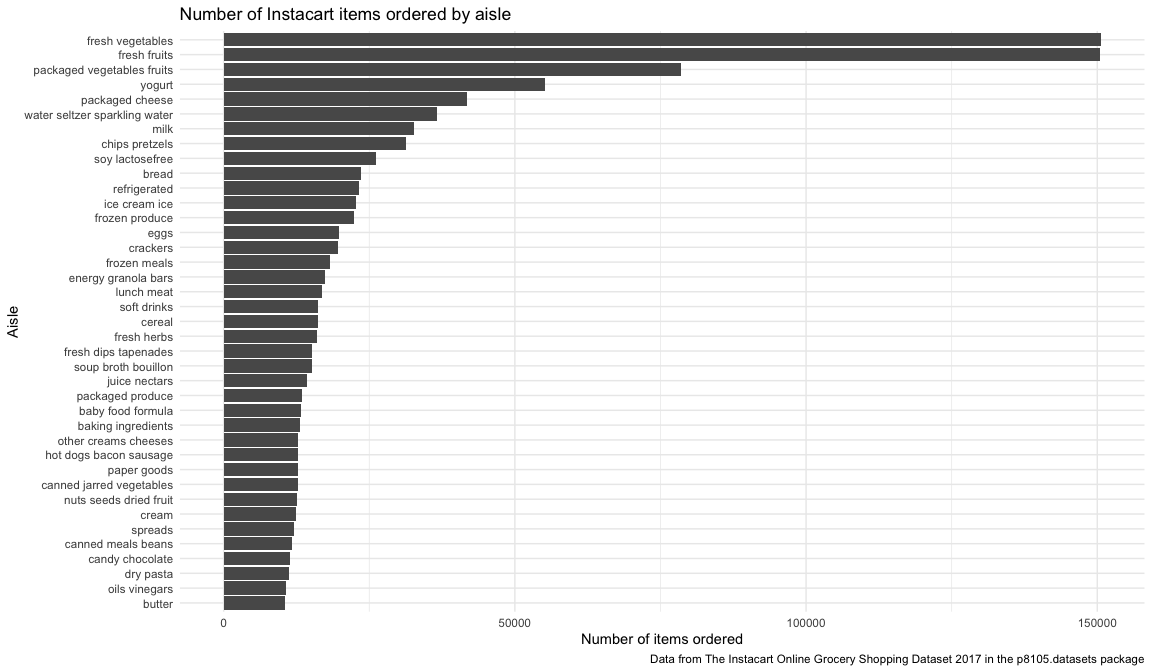
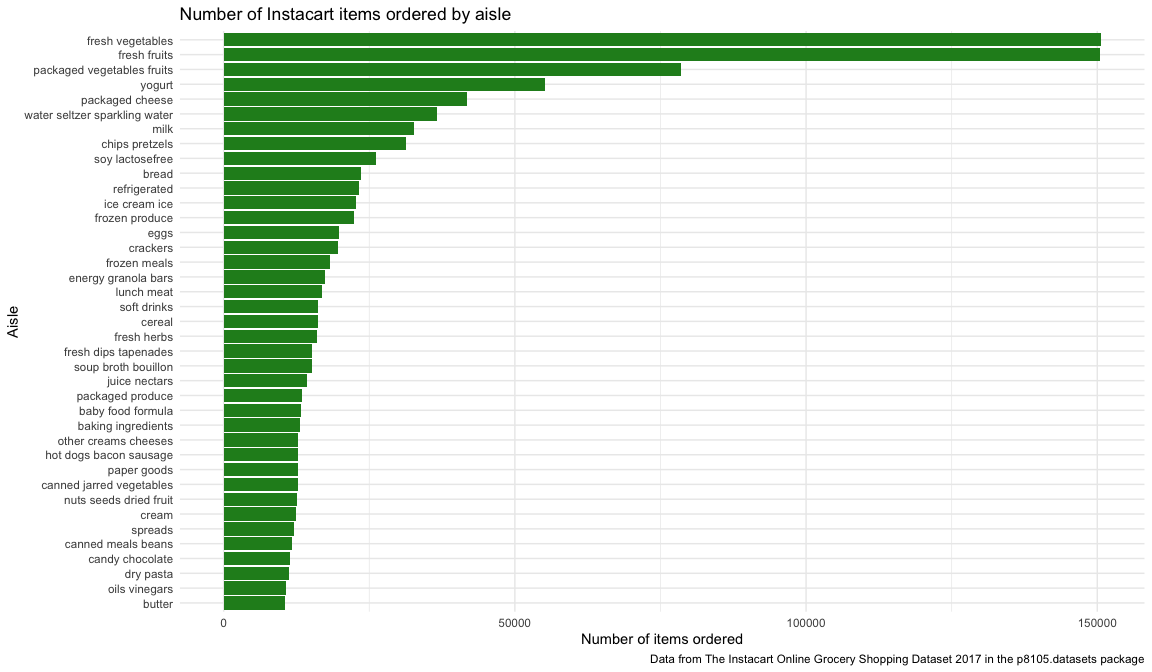
Problem 1 Part 4

Changed region(s): [[0.1875, 0.0312, 0.9688, 0.9062]]

diff --git a/p8105_hw3_my2731.md b/p8105_hw3_my2731.md
@@ -12,7 +12,7 @@ Dataset 2017”.
 ``` r
 data("instacart")
 
-instacart
+instacart 
 ```
 
     ## # A tibble: 1,384,617 × 15
@@ -62,8 +62,7 @@ aisles, and the most popular aisles customers order from in the dataset.
 aisles = instacart %>% 
   group_by(aisle_id, aisle) %>% 
   summarise(
-    n_obs = n()
-  ) %>% 
+    n_obs = n()) %>% 
   arrange(desc(n_obs))
 
 aisles
@@ -95,7 +94,7 @@ respectively.
 plot_aisles = aisles %>% 
   filter(n_obs >= 10000) %>% 
   ggplot(aes(x = reorder(aisle, n_obs), y = n_obs)) +
-  geom_bar(stat = "identity") + 
+  geom_bar(stat = "identity", fill = "forestgreen") + 
   coord_flip() +
   labs(
     title = "Number of Instacart items ordered by aisle",
@@ -126,22 +125,47 @@ pop_items = instacart %>%
   group_by(aisle, product_name) %>% 
   summarise(n_obs = n()) %>% 
   arrange(desc(n_obs),.by_group = TRUE) %>% 
-  slice(1)
+  slice(1) %>% 
+  arrange(desc(n_obs)) %>% 
+  rename("Aisle" = aisle,
+         "Product name" = product_name,
+         "# of orders" = n_obs)
 
 knitr::kable(pop_items)
 ```
 
-| aisle                      | product_name                                    | n_obs |
-|:---------------------------|:------------------------------------------------|------:|
-| baking ingredients         | Light Brown Sugar                               |   157 |
-| dog food care              | Organix Grain Free Chicken & Vegetable Dog Food |    14 |
-| packaged vegetables fruits | Organic Baby Spinach                            |  3324 |
+| Aisle                      | Product name                                    | \# of orders |
+|:---------------------------|:------------------------------------------------|-------------:|
+| packaged vegetables fruits | Organic Baby Spinach                            |         3324 |
+| baking ingredients         | Light Brown Sugar                               |          157 |
+| dog food care              | Organix Grain Free Chicken & Vegetable Dog Food |           14 |
 
 4.  Mean ordering times
 
-Make a table showing the mean hour of the day at which Pink Lady Apples
-and Coffee Ice Cream are ordered on each day of the week; format this
-table for human readers (i.e. produce a 2 x 7 table).
+Using `pivot_wider`, we can create a table showing the mean hour (scaled
+to a 24-hour day) at which Pink Lady Apples and Coffee Ice Cream are
+ordered on each day of the week.
+
+``` r
+instacart %>% 
+  filter(product_name == c("Pink Lady Apples", "Coffee Ice Cream")) %>% 
+  group_by(product_name, order_dow) %>% 
+  summarise(avg_hour = round(mean(order_hour_of_day), 2)) %>% 
+  pivot_wider(product_name, 
+              names_from = order_dow,
+              values_from = avg_hour) %>% 
+  knitr::kable(col.names = c("Product name", "Sunday", "Monday", "Tuesday", "Wednesday",
+                             "Thursday", "Friday", "Saturday"))
+```
+
+| Product name     | Sunday | Monday | Tuesday | Wednesday | Thursday | Friday | Saturday |
+|:-----------------|-------:|-------:|--------:|----------:|---------:|-------:|---------:|
+| Coffee Ice Cream |  13.22 |  15.00 |   15.33 |     15.40 |    15.17 |  10.33 |    12.35 |
+| Pink Lady Apples |  12.25 |  11.68 |   12.00 |     13.94 |    11.91 |  13.87 |    11.56 |
+
+Based on the table, Coffee Ice Cream is usually ordered in the early
+afternoon for every day of the week while Pink Lady Apples range from
+being ordered, on average, after 11am and after 2pm.
 
 ## Problem 2: Accelerometer Data
 
@@ -283,7 +307,7 @@ according to the day of the week.
 ``` r
 activity_plot = daily_activity %>% 
   ggplot(aes(x = minute, y = mean_activity, color = day)) + 
-  geom_point(alpha = 0.1) + 
+  geom_point(alpha = 0.1, size = 0.8) + 
   geom_smooth(se = FALSE) + 
   labs(
     x = "Minute",
@@ -424,6 +448,14 @@ Make a two-panel plot showing the average max temperature in January and
 in July in each station across years. Is there any observable /
 interpretable structure? Any outliers?
 
+The resulting plots show the average maximum daily temperature in
+January and July from 1981-2010. The average max temperature in Jaunary
+tends to fluctuate around zero degrees Celsius, while the temperature
+for July varies around 27 degrees Celsius. We can see slight
+similarities in the variation In addition, the average maximum
+temperature for January appears to have more variation compared to that
+of July.
+
 ``` r
 janjul_p = noaa_clean %>% 
   group_by(month, year) %>% 
@@ -455,12 +487,11 @@ tmax_tmin_p = noaa_clean %>%
   geom_hex() + 
   labs(
     x = "Minimum temperature (°C)",
-    y = "Max temperature (°C)",
-    title = "Density of daily minimum vs. maximum temperature in New York, 1981-2010",
-    caption = "Data come from the rnoaa package"
+    y = "Maximum temperature (°C)",
+    title = "Density of daily minimum vs. maximum temperature (°C)",
   ) + 
   theme(legend.key.width = unit(0.5, "in"),
-        plot.title = element_text(size = 9)) +
+        plot.title = element_text(size = 11)) +
   viridis::scale_fill_viridis(name = "", option = "plasma")
 
 snowfall_p = noaa_clean %>% 
@@ -470,16 +501,19 @@ snowfall_p = noaa_clean %>%
   labs(
     x = "Snowfall (mm)",
     y = "Density",
-    title = "Density distribution of snowfall in New York, 1981-2010",
+    title = "Density of daily snowfall (mm)",
     colour = "Year",
-    caption = "Data come from the rnoaa package"
   ) + 
-  theme(legend.text = element_text(size = 5), 
-        legend.key.size = unit(0.1, "in"),
-        plot.title = element_text(size = 9)) + 
+  theme(legend.text = element_text(size = 6), 
+        legend.key.size = unit(0.15, "in"),
+        plot.title = element_text(size = 11)) + 
   viridis::scale_colour_viridis(discrete = TRUE, option = "plasma")
 
-tmax_tmin_p + snowfall_p
+weather_plots = tmax_tmin_p + snowfall_p
+
+wrap_elements(weather_plots) + 
+  ggtitle("Density distributions of min vs. max temperature and snowfall in New York State, 1981-2010") +
+  labs(caption = "Data come from the rnoaa package")
 ```
 
 ![](p8105_hw3_my2731_files/figure-gfm/temp%20and%20snowfall%20plots-1.png)<!-- -->
